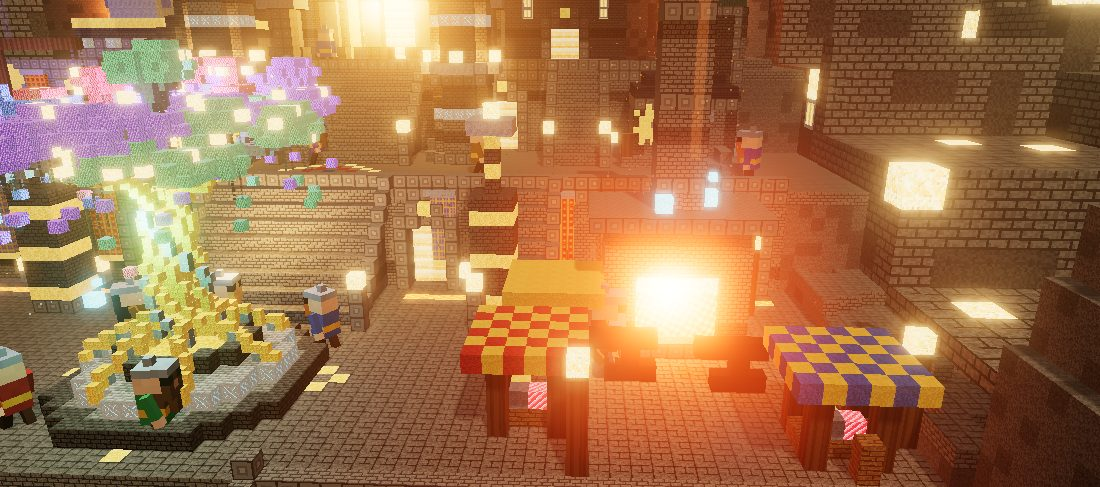
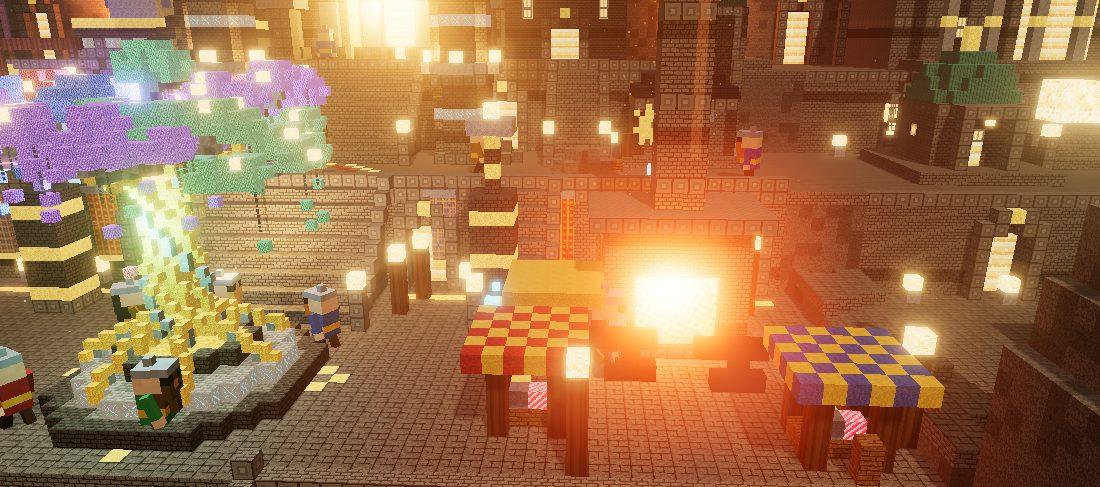
Zwergenstadt links/rechts erweitert (Königsstatue, Königshalle, Häuser, Lavaspalte, Mine); Woodlands-Boden begrünt mit Büschen
Claude-Session: https://claude.ai/code/session_01VyrGtGhpmUQ9uCwobRxi57

diff --git a/lernwelt/welten/stein.js b/lernwelt/welten/stein.js
@@ -200,6 +200,96 @@ export function build(A){
   towerHouse(29, L1, 30, 3, 8);
   tavern(20, L0, 62, 7, 4);
   domeHouse(79, L2, 18, 3);
+
+  // ================= Erweiterung links und rechts =================
+  const XL0=-46, XR1=W+45;
+  // Boden: gleiche Terrassen wie in der Mitte, mit Stützmauern, Treppen und Laternen
+  for(let z=10; z<D; z++) for(const [x0,x1] of [[XL0,-1],[W,XR1]]) for(let x=x0; x<=x1; x++){ const h=level(z); for(let y=0;y<h;y++) set(x,y,z, y===h-1 ? "flag" : (rand()<.3?"deep":"stone")); }
+  for(const [x0,x1] of [[XL0,-1],[W,XR1]]) for(let x=x0;x<=x1;x++){ for(let y=L0;y<L1;y++) set(x,y,43,(y===L1-1)?"chisel":(y%6===0?"sbrickD":"sbrick")); for(let y=L1;y<L2;y++) set(x,y,25,(y===L2-1)?"chisel":(y%6===0?"sbrickD":"sbrick")); }
+  for(const sx of [-24, W+22]){ stairs(sx-3,sx+3,L0,51,8); stairs(sx-3,sx+3,L1,33,8); }
+  for(const ax of [-36,-12,W+10,W+34]){ archZ(ax,L0,43,3,4); archZ(ax,L1,25,3,4); }
+  // Rückwand hinter der Erweiterung
+  for(const [x0,x1] of [[XL0,-1],[W,XR1]]) for(let x=x0;x<=x1;x++) for(let z=0;z<10;z++) for(let y=0;y<TOP;y++) set(x,y,z, y>=L2 && rand()<.02 ? pick(["goldOre","diaOre"]) : (rand()<.3?"deep":"stone"));
+  for(const [x0,x1] of [[XL0,-1],[W,XR1]]) for(let x=x0;x<=x1;x+=7) archZ(x+3,L2,9,3,5);
+
+  // ---------- Links: riesige, sehr detaillierte Statue des Zwergenkönigs ----------
+  const king = (x,y,z) => { const ST="statue", GD="gold", DK="deep";
+    // Sockel: drei Stufen, Runenband, Goldkante, Inschrift-Tafeln
+    for(let k=0;k<4;k++){ fill(x-11+k,y+k,z-9+k,x+11-k,y+k,z+9-k, k===3?"chisel":"sbrick"); }
+    for(let a=-8;a<=8;a++){ set(x+a,y+2,z+7,(a%2)?"rune":"chisel"); set(x+a,y+3,z+7,GD); }
+    for(const a of [-9,9]){ fill(x+a,y,z+8,x+a,y+6,z+8,"chisel"); fill(x+a-1,y+7,z+7,x+a+1,y+7,z+9,"iron"); set(x+a,y+8,z+8,"glow"); }
+    const b=y+4;
+    // Stiefel mit Goldkappen, Beine im Schritt
+    fill(x-5,b,z-2,x-1,b+2,z+4,ST); fill(x+1,b,z-3,x+5,b+2,z+2,ST); fill(x-5,b,z+4,x-1,b,z+4,GD); fill(x+1,b,z+2,x+5,b,z+2,GD);
+    fill(x-4,b+3,z-1,x-2,b+10,z+2,ST); fill(x+2,b+3,z-2,x+4,b+10,z+1,ST);
+    // Kettenhemd-Rock und Gürtel mit großer Schnalle
+    for(let yy=b+9; yy<=b+13; yy++){ const w=6-Math.floor((yy-b-9)*.3); fill(x-w,yy,z-3,x+w,yy,z+3,(xx,y2,zz)=> (xx+y2+zz)%2 ? "iron" : ST); }
+    fill(x-6,b+14,z-3,x+6,b+15,z+4,"planks"); fill(x-2,b+14,z+4,x+2,b+15,z+5,GD); set(x,b+14,z+5,"ruby");
+    // Rumpf mit Brustpanzer und Runen
+    for(let yy=b+16; yy<=b+26; yy++){ const w = yy<b+21 ? 6 : 7; fill(x-w,yy,z-3,x+w,yy,z+4,ST); }
+    for(let yy=b+18;yy<=b+24;yy++) for(let a=-3;a<=3;a++) if(Math.abs(a)+Math.abs(yy-b-21)<=4) set(x+a,yy,z+5, Math.abs(a)+Math.abs(yy-b-21)===4 ? GD : "iron");
+    set(x,b+21,z+5,"sapphire");
+    // Schulterpanzer, Umhang
+    for(const s2 of [-1,1]){ ellip(x+s2*8,b+25,z,2.6,2,3.2,ST); fill(x+s2*8,b+24,z-3,x+s2*8,b+24,z+3,GD); }
+    for(let yy=b+4; yy<=b+25; yy++){ const w=7+Math.floor((b+25-yy)*.12); fill(x-w,yy,z-5,x+w,yy,z-4,"woolR"); } fill(x-8,b+4,z-5,x+8,b+4,z-5,GD);
+    // Arme: links auf den Schild gestützt, rechts hält die Axt hoch
+    fill(x-10,b+14,z-1,x-8,b+23,z+2,ST); fill(x-10,b+12,z+1,x-8,b+13,z+3,ST);
+    fill(x+8,b+19,z-1,x+10,b+24,z+2,ST); fill(x+9,b+25,z,x+11,b+32,z+2,ST); fill(x+9,b+33,z,x+11,b+34,z+2,ST);
+    // Schild (rund, mit Gold und Rubin)
+    for(let a=-5;a<=5;a++) for(let c=-5;c<=5;c++){ const d=Math.hypot(a,c); if(d<=5.3) set(x-12,b+8+c+5,z+3+a, d>4.5?GD:(d<1.3?"ruby":((Math.round(a)+Math.round(c))%3===0?"iron":ST))); }
+    // Axt: langer Stiel, doppeltes Blatt
+    fill(x+10,b+20,z+1,x+10,b+46,z+1,"log"); for(const s2 of [-1,1]) for(let k=0;k<6;k++) fill(x+10+s2*(1+k*.7|0),b+40-k*.6|0,z+1,x+10+s2*(1+k*.7|0),b+44+k*.6|0,z+1,"iron"); set(x+10,b+47,z+1,GD);
+    // Kopf: Gesicht, Nase, Augen, buschige Brauen
+    fill(x-4,b+27,z-2,x+4,b+34,z+3,ST); fill(x-1,b+30,z+4,x+1,b+32,z+5,ST); set(x,b+29,z+5,ST);
+    for(const s2 of [-2,2]){ set(x+s2,b+32,z+4,"glow"); fill(x+s2-1,b+33,z+4,x+s2+1,b+33,z+5,ST); }
+    // Bart: lang, in drei geflochtenen Zöpfen mit Goldringen
+    for(let yy=b+16; yy<=b+30; yy++){ const w=Math.max(1, Math.round((yy-b-16)*.32)+1); fill(x-w,yy,z+4,x+w,yy,z+5,ST); }
+    for(const a of [-3,0,3]) for(let yy=b+6; yy<b+17; yy++){ set(x+a,yy,z+5,(yy-b)%3===0?GD:ST); if((yy-b)%2) set(x+a+(yy%2?1:0),yy,z+6,ST); }
+    fill(x-5,b+29,z+4,x+5,b+29,z+4,ST);  // Schnurrbart
+    // Helm mit Hörnern, Krone und Edelsteinen
+    fill(x-5,b+35,z-3,x+5,b+35,z+4,GD); for(let k=0;k<5;k++) fill(x-4+k,b+36+k,z-2+Math.floor(k/2),x+4-k,b+36+k,z+3-Math.floor(k/2),"iron");
+    for(const a of [-4,-2,0,2,4]){ set(x+a,b+36,z+5,a===0?"emerald":"gold"); set(x+a,b+37,z+5,a%4===0?"gold":null); }
+    for(const s2 of [-1,1]){ line(x+s2*5,b+36,z,x+s2*9,b+40,z+1,"statue"); line(x+s2*9,b+40,z+1,x+s2*10,b+45,z+2,"chisel"); }
+    return b+47; };
+  const kingTop = king(-24, L2, 17);
+  // Vorplatz mit Feuerschalen und Mosaik
+  for(let a=-10;a<=10;a++) for(let c=0;c<14;c++){ const xx=-24+a, zz=27+c; if(get(xx,L1-1,zz)!=="flag") continue; set(xx,L1-1,zz,(Math.abs(a)+c)%5===0?"tileB":(Math.abs(a)===10?"gold":"flag")); }
+  for(const a of [-9,9]){ fill(-24+a,L1,30,-24+a,L1+2,30,"chisel"); fill(-24+a-1,L1+3,29,-24+a+1,L1+3,31,"iron"); set(-24+a,L1+4,30,"lava"); }
+
+  // Häuser in der linken Erweiterung
+  towerHouse(-10,L0,60,3,9); tavern(-36,L0,58,7,4); stepHouse(-8,L1,34,7); workshop(-38,L1,34,9,6);
+  // Brücke über eine Lavaspalte (links unten)
+  { for(let z=46;z<D;z++) for(let x=-34;x<=-28;x++){ for(let y=1;y<L0;y++) set(x,y,z,null); set(x,0,z,"lava"); }
+    for(let x=-36;x<=-26;x++){ fill(x,L0-1,70,x,L0-1,72,"planks"); set(x,L0,70,(x%2)?"log":null); set(x,L0,72,(x%2)?"log":null); }
+    for(const z of [48,60,84,94]) set(-31,1,z,"glow"); }
+
+  // ---------- Rechts: große Königshalle (Bergkönigs-Halle) mit Schmiede-Esse und Glockenturm ----------
+  { const x=W+24, z=16, y=L2;
+    fill(x-15,y,z-6,x+15,y+16,z+6,(a,b,c)=> (b-y)%5===4 ? "chisel" : "sbrick");
+    // Säulenportikus vorne
+    fill(x-14,y,z+7,x+14,y,z+11,"flag"); for(let a=-12;a<=12;a+=4){ fill(x+a,y+1,z+10,x+a,y+14,z+10,(xx,yy)=> (yy-y)%4===0 ? "gold" : "statue"); fill(x+a-1,y+15,z+9,x+a+1,y+15,z+11,"chisel"); }
+    fill(x-15,y+16,z+7,x+15,y+17,z+11,"chisel"); for(let a=-15;a<=15;a++) set(x+a,y+17,z+12,(a%3)?"rune":"gold");
+    // Giebel
+    for(let k=0;k<10;k++) fill(x-15+k*1.5|0,y+18+k,z-7,x+15-(k*1.5|0),y+18+k,z+12, k===9?"gold":(k%2?"roofD":"tileR"));
+    for(let a=-6;a<=6;a++) for(let b=0;b<6;b++) if(Math.abs(a)<=6-b) set(x+a,y+19+b,z+13,(a===0&&b===2)?"sapphire":"chisel");
+    // großes Tor mit warmem Licht
+    for(let a=-3;a<=3;a++) for(let b=0;b<10;b++){ if(b<7||Math.hypot(a,b-7)<3.3){ set(x+a,y+b,z+6,"door"); } }
+    for(const a of [-9,9]) for(let b=3;b<12;b+=4){ set(x+a,y+b,z+6,"win"); set(x+a,y+b+1,z+6,"win"); }
+    // Esse mit rauchendem Schlot
+    fill(x+12,y+17,z-4,x+15,y+34,z-1,"sbrickD"); fill(x+12,y+35,z-4,x+15,y+35,z-1,"magma"); chim.push([x+13.5,y+36,z-2.5]);
+    // Glockenturm links
+    for(let yy=y+17;yy<y+36;yy++) for(let a=-2;a<=2;a++) for(let c=-2;c<=2;c++){ if(Math.abs(a)!==2&&Math.abs(c)!==2) continue; set(x-12+a,yy,z+c, (yy-y)%6===0?"chisel":((yy-y)%6===3&&(a===0||c===0)?"win":"sbrick")); }
+    fill(x-12,y+33,z,x-12,y+34,z,"gold"); for(let k=0;k<6;k++) fill(x-14+k*.4|0,y+36+k,z-2+(k*.4|0),x-10-(k*.4|0),y+36+k,z+2-(k*.4|0),"copper"); set(x-12,y+42,z,"gold");
+    // Fahnen
+    for(const a of [-6,6]){ fill(x+a,y+18,z+13,x+a,y+24,z+13,"log"); fill(x+a+1,y+21,z+13,x+a+3,y+24,z+13,a<0?"banR":"banB"); }
+    S.hallTop=[x,y+28,z]; }
+  // Häuser und Markt in der rechten Erweiterung
+  domeHouse(W+10,L1,34,3); towerHouse(W+38,L1,32,3,10); stepHouse(W+12,L0,60,9); tavern(W+34,L0,62,7,4);
+  // Mine-Lore auf Schienen am Rand
+  for(let z=46;z<D-2;z++){ set(W+42,L0-1,z,"iron"); if(z%2) set(W+41,L0-1,z,"planks"); }
+  fill(W+41,L0,70,W+43,L0+1,72,"iron"); set(W+42,L0+2,71,"goldOre"); set(W+42,L0+2,70,"emerald");
+  // Laternen auf den Erweiterungsterrassen
+  for(const [x0,x1] of [[XL0+3,-3],[W+3,XR1-3]]) for(let x=x0;x<=x1;x+=7) for(const z of [45,27]){ const L=z===45?L0:L1; if(!get(x,L,z)){ set(x,L,z,"iron"); set(x,L+1,z,"lamp"); } }
   // ---------- Unterstadt vorne: eine Ebene tiefer, Straße mit Häusern, die Stadt geht weiter ----------
   const LM = L0-8, Z0 = D, Z1 = D+34;
   for(let z=Z0; z<=Z1; z++) for(let x=-2; x<=W+2; x++){ const side = Math.max(0, Math.max(4-x, x-(W-5)));
@@ -253,11 +343,11 @@ export function build(A){
   // ---------- Weitere Höhlen links und rechts bis in die Ferne: Terrassen, beleuchtete Häuser ----------
   const away = x => Math.max(0,-x, x-W);
   const fh = (x,z) => { const a=away(x); let h = level(Math.max(z,10)) + Math.floor(a/22)*6 + fbm(x*.05,z*.05)*3; if(a>90) h += (a-90)*1.6; if(z<10) h = 80; return Math.min(h,80); };
-  A.farTerrain({ x0:-170, x1:W+170, z0:-12, z1:D+50, base:0, skip:(x,z)=> x>-1 && x<W+1,
+  A.farTerrain({ x0:-170, x1:W+170, z0:-12, z1:D+50, base:0, skip:(x,z)=> x>XL0-1 && x<XR1+1,
     h: fh, top:(x,z,y,hc)=> y*3 > 60 ? "stone" : (rand()<.04 ? "glow" : "flag"),
     fill:(x,z,y,hc)=> (y%2===1 && y*3<26 && rand()<.14) ? "win" : (rand()<.25 ? "deep" : "sbrick") });
   // große Höhlendecke über der ganzen erweiterten Halle, mit Tropfsteinen
-  for(let cz=-4; cz<Math.ceil((OPEN+40)/3); cz++) for(let cx=Math.floor(-170/3); cx<Math.ceil((W+170)/3); cx++){ const x=cx*3, z=cz*3; if(x>-3 && x<W+3 && z<OPEN+2) continue;
+  for(let cz=-4; cz<Math.ceil((OPEN+40)/3); cz++) for(let cx=Math.floor(-170/3); cx<Math.ceil((W+170)/3); cx++){ const x=cx*3, z=cz*3; if(x>XL0-3 && x<XR1+3 && z<4) continue;
     const cy = Math.round((TOP+34+fbm(x*.02,z*.02)*10 + Math.max(0,z-OPEN)*.3)/3); F.set(cx,cy,cz,"stone"); F.set(cx,cy+1,cz,"deep");
     if(rand()<.05){ const l=1+Math.floor(rand()*4); for(let k=1;k<=l;k++) F.set(cx,cy-k,cz,"deep"); } }
   // Laternen und Lichter in den Seitenhöhlen

diff --git a/lernwelt/welten/wald.js b/lernwelt/welten/wald.js
@@ -32,12 +32,11 @@ export function build(A){
   };
   const W=96, D=72, WL=3;
   // Tal mit Wasser unten, Klippen hinten mit Wasserfällen
-  const H = (x,z) => { let h = 2 + fbm(x*.08,z*.08)*3.5;
+  const H = (x,z) => { let h = WL + 2.5 + fbm(x*.08,z*.08)*2.5;
     const back = Math.max(0, 16 - z); if(back>0) h += back*1.5 + fbm(x*.12,z*.2)*7;
     const side = Math.max(0, Math.max(5 - x, x - (W-6))); if(side>0) h += side*2.2 + fbm(x*.2,z*.1)*4;
     return h; };
-  terrain(W, D, H, (x,y,z,h) => y===h-1 ? (h<=WL+1 ? "dirt" : (h>14 ? (rand()<.5?"moss":"grass") : "grass")) : y>h-3 ? "dirt" : (rand()<.35?"moss":"stone"));
-  for(let z=0;z<D;z++) for(let x=0;x<W;x++){ const t=topAt(x,z,60); for(let y=t+1;y<=WL;y++) set(x,y,z,"water"); }
+  terrain(W, D, H, (x,y,z,h) => y===h-1 ? (h>14 ? (rand()<.5?"moss":"grass") : (rand()<.12?"moss":"grass")) : y>h-3 ? "dirt" : (rand()<.35?"moss":"stone"));
 
   // ---------- Bausteine ----------
   // Riesenbaum mit Wurzeln, leicht gedrehtem Stamm, Ästen und Krone
@@ -93,7 +92,7 @@ export function build(A){
       if(i%Math.ceil(n/2)===0 && i>0 && i<n){ for(let yy=WL-1;yy<ay;yy++) for(const w of [-1,0,1]) set(x+nx*w,yy,z+nz*w,"elfPillar"); }
       if(i===0||i===n){ for(const w of [-2,2]){ set(x+nx*w,y+2,z+nz*w,"elfPillar"); set(x+nx*w,y+3,z+nz*w,"lantern"); } } } };
   // Wasserfall
-  const waterfall = (x,z,w) => { const t=topAt(x,z,80); for(let y=t; y>WL; y--) for(let a=0;a<w;a++){ const zz = z + Math.max(0, Math.floor((t-y)*.08)); set(x+a,y,zz+1,"fall"); } for(let a=-1;a<=w;a++) set(x+a,t+1,z,"water"); };
+  const waterfall = (x,z,w) => { const t=topAt(x,z,80); for(let y=t; y>WL; y--) for(let a=0;a<w;a++){ const zz = z + Math.max(0, Math.floor((t-y)*.08)); if(y<t-3 && get(x+a,y,zz+1) && get(x+a,y,zz+1)!=="fall"){ if(y<WL+8){ for(let b=-2;b<=2;b++) for(let c=1;c<=4;c++) if(get(x+a+b,y,zz+c)) set(x+a+b,y,zz+c,"water"); } continue; } set(x+a,y,zz+1,"fall"); } for(let a=-1;a<=w;a++) set(x+a,t+1,z,"water"); };
 
   // ---------- Grammar: Elbenpalast im Riesenbaum ----------
   const S = {
@@ -203,6 +202,9 @@ export function build(A){
   for(let i=0;i<28;i++){ const x=-150+rand()*(W+340), z=-170+rand()*(D+200); const aw=away(x,z); if(aw<14 || (x>-80 && x<W+80 && z>-4)) continue; farTree(x,z, 4+Math.floor(rand()*2)*3, 46+Math.floor(rand()*36)); }
 
   // Glühwürmchen, Nebel, Lichtstrahlen, Einhorn, Vögel
+  // vereinzelte Büsche, Farne und Pilze auf dem begrünten Boden
+  for(let i=0;i<120;i++){ const x=4+Math.floor(rand()*(W-8)), z=18+Math.floor(rand()*(D-20)); const t=topAt(x,z,30); if(t<WL || t>12) continue; const g=get(x,t,z); if(g!=="grass" && g!=="moss") continue; if(get(x,t+1,z)||get(x,t+2,z)) continue;
+    const r=rand(); if(r<.55){ ellip(x,t+1,z,1+rand()*1.2,.8+rand()*.6,1+rand()*1.2,(a,b,c)=> get(a,b,c) ? get(a,b,c) : (rand()<.3?"leaves2":"leaves")); } else if(r<.75) set(x,t+1,z,"glowMush"); else if(r<.9) set(x,t+1,z,pick(["flowerB","flowerW"])); else set(x,t+1,z,"mush"); }
   const creatures = [{ ...stag(), at:[S.vocabulary.x-5, 13, S.vocabulary.z+1], yaw:-.85, scale:.225 }];
   // ein paar Elben: über die große Brücke, über Hängebrücken, am Brunnen; dazu zwei kleine Elfen
   const rev = a => a.slice().reverse();
